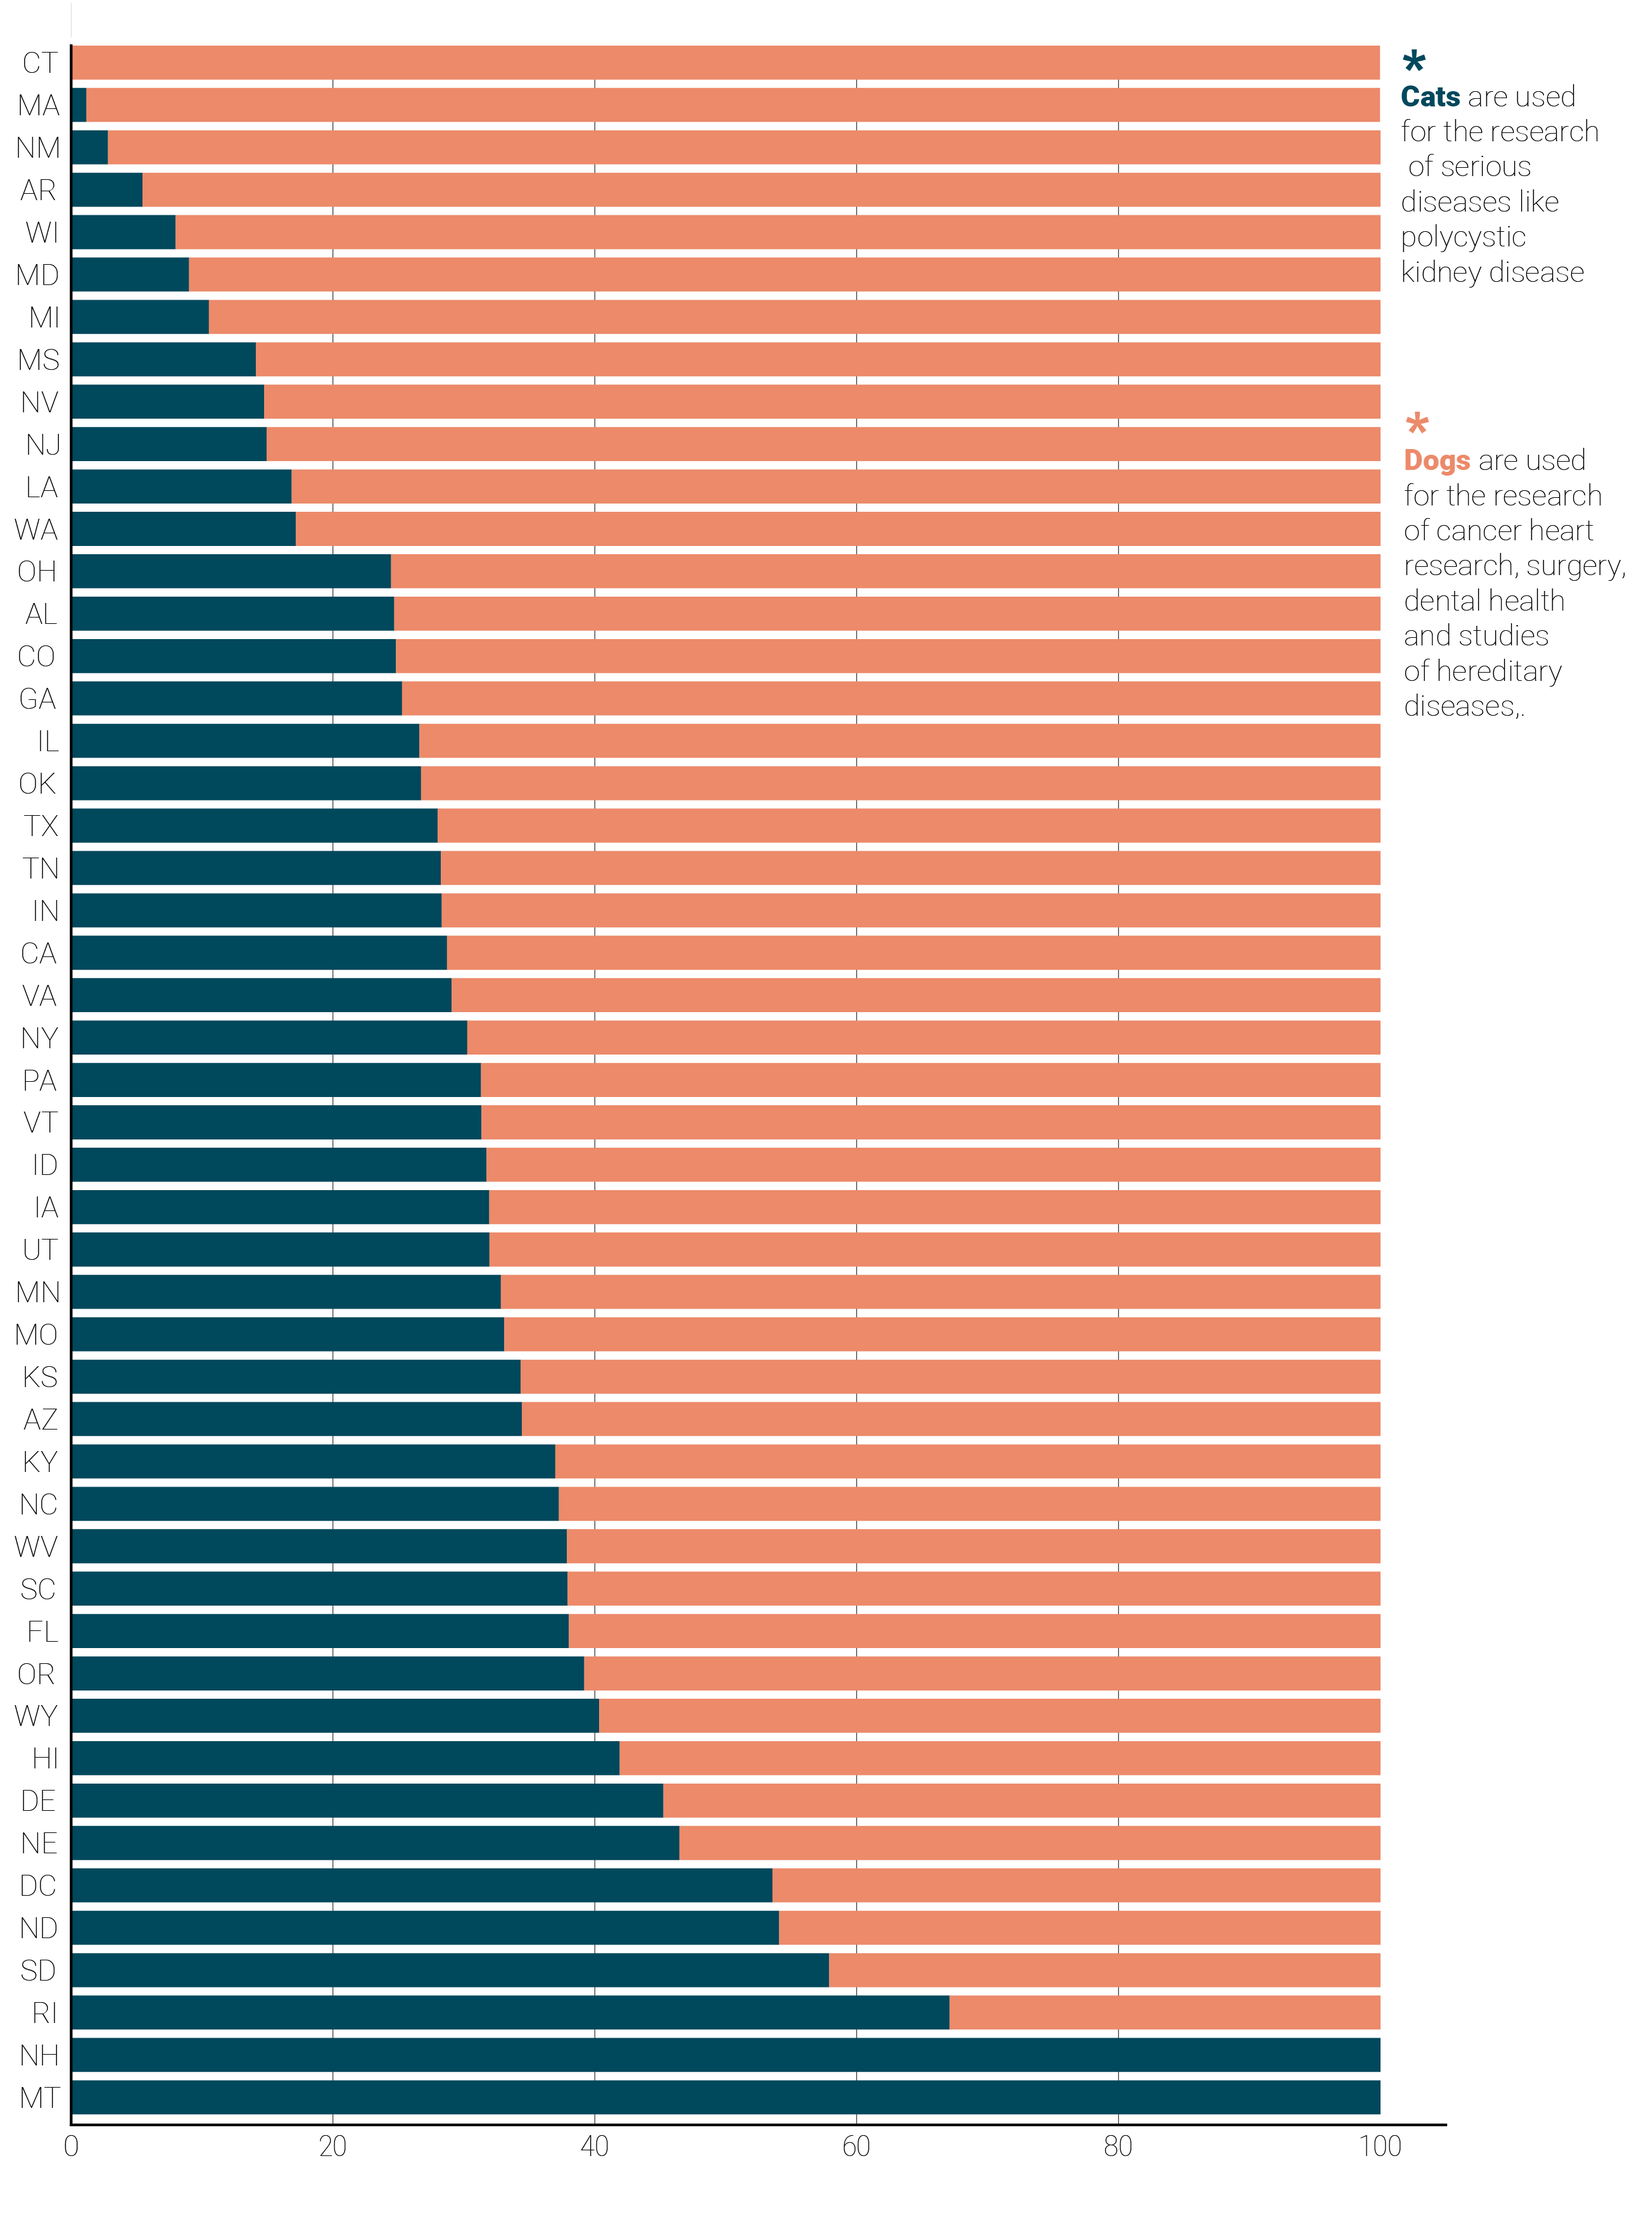
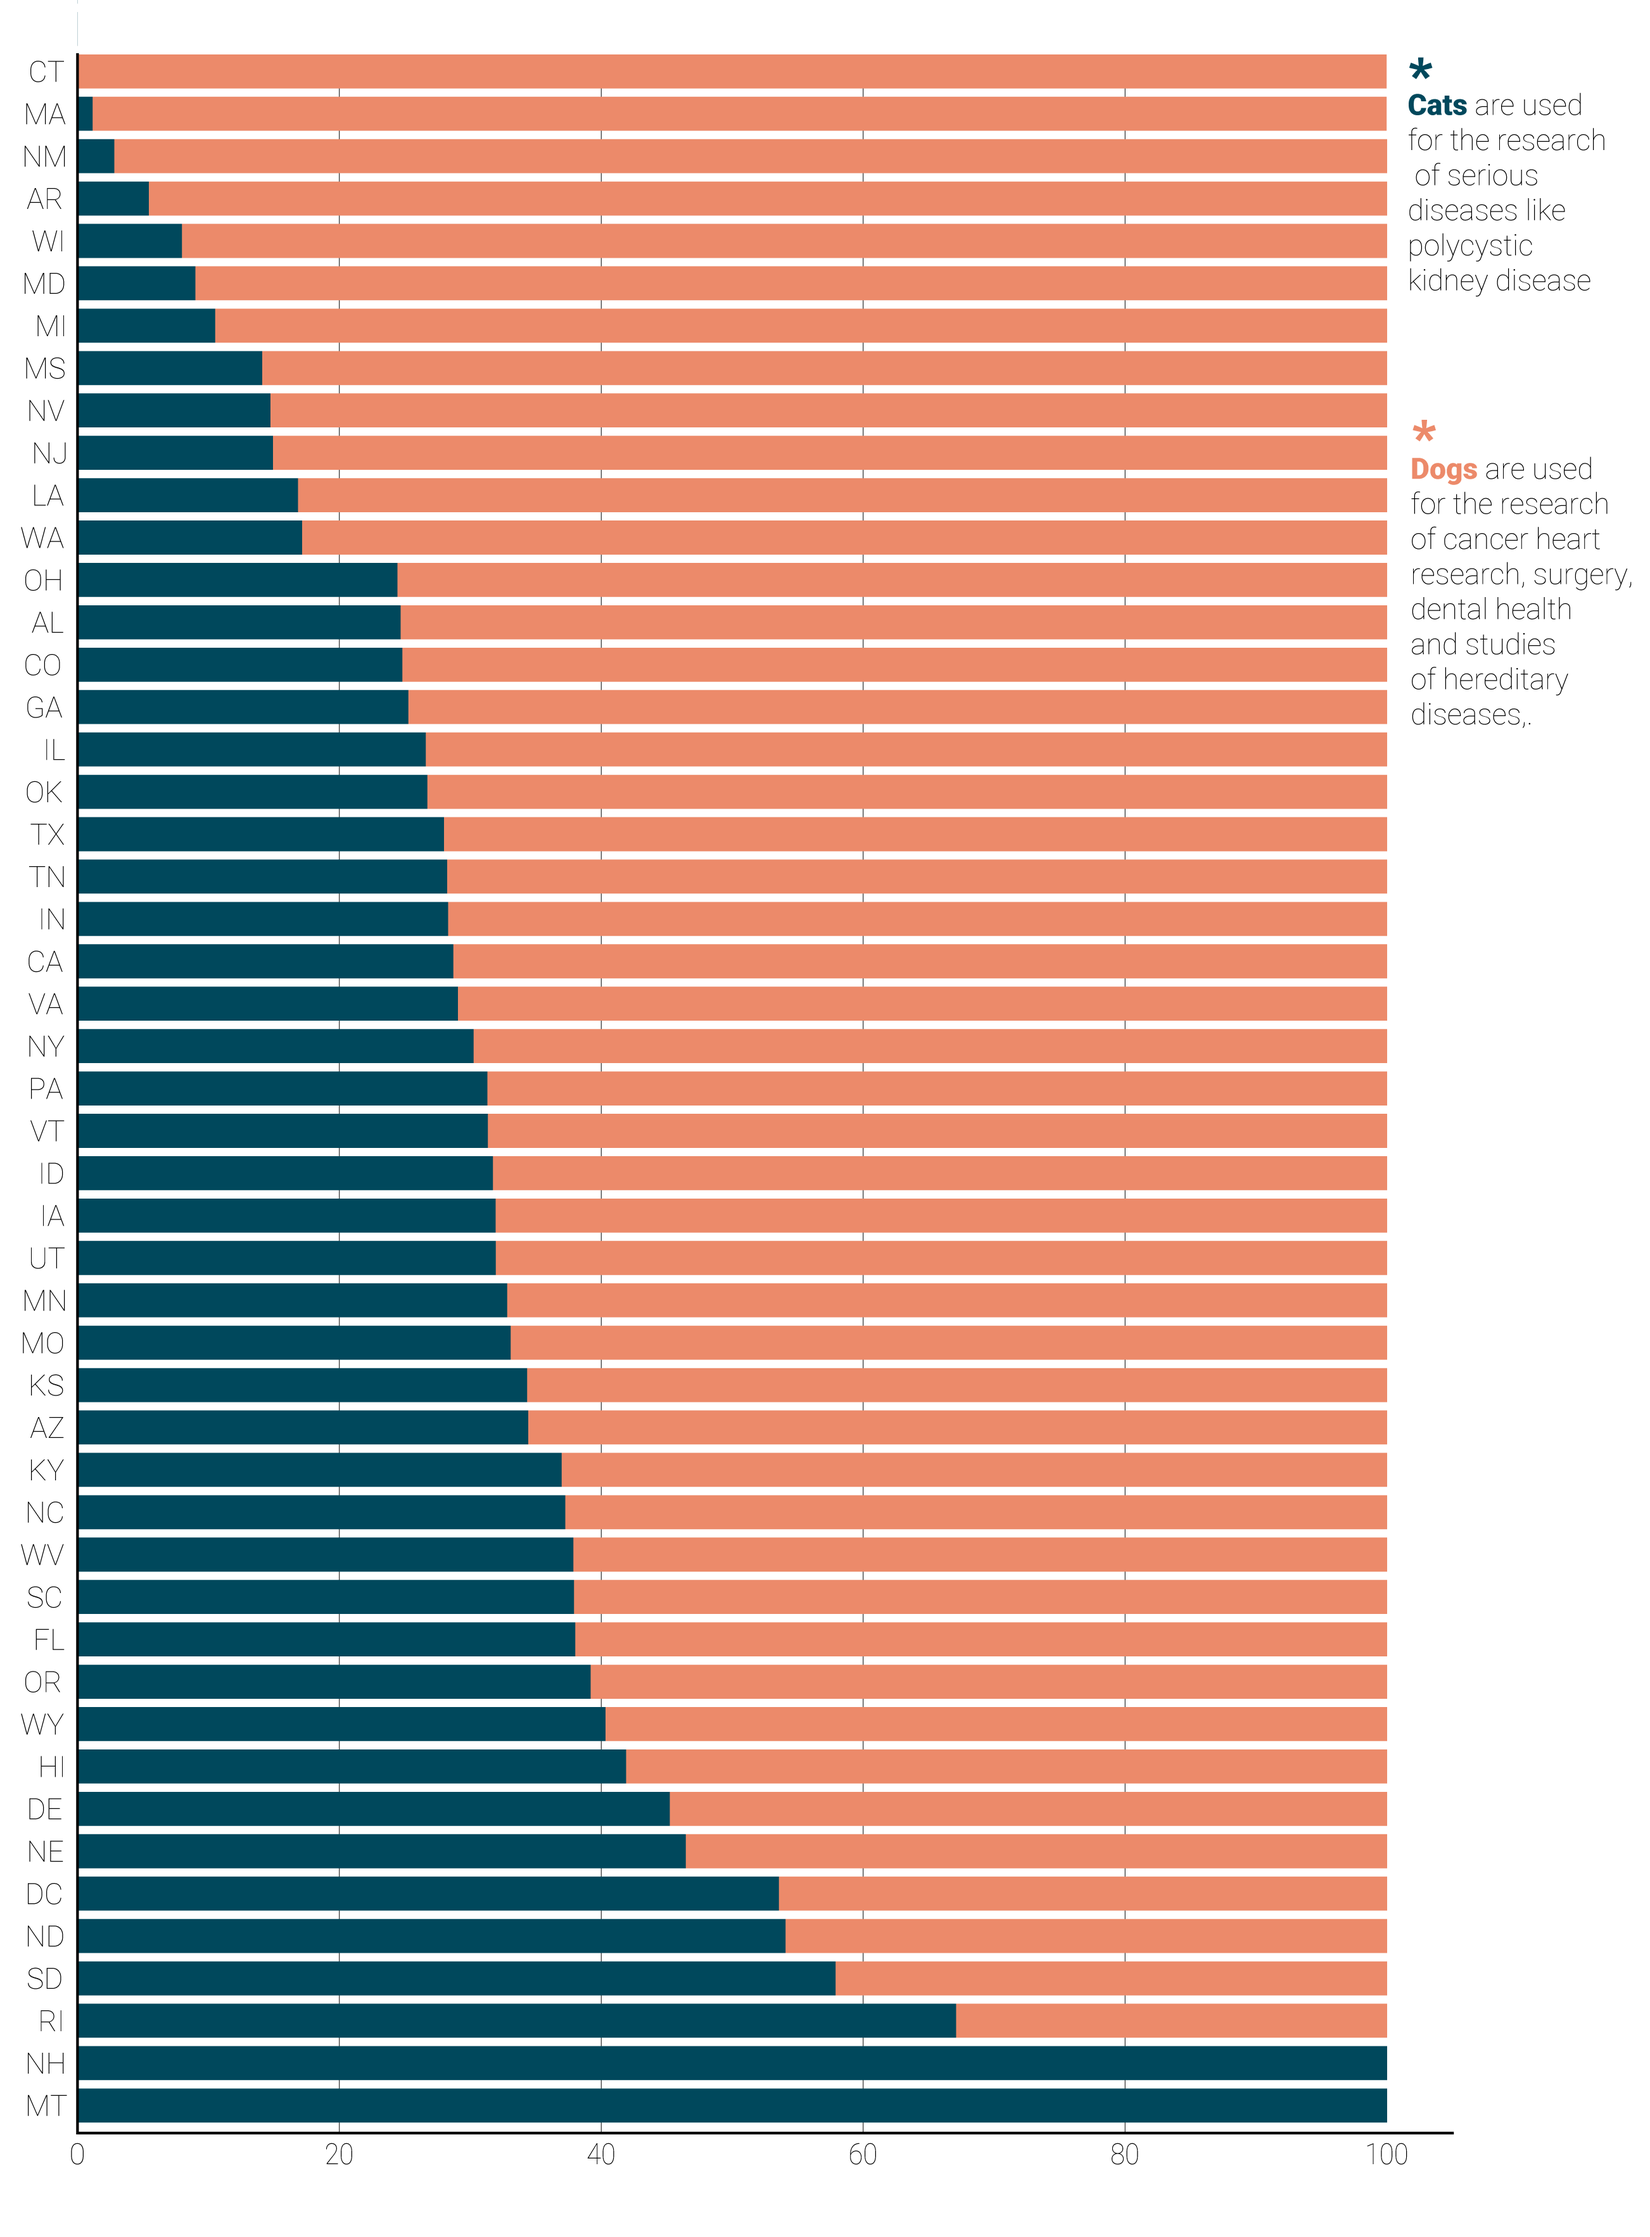
.

Changed region(s): [[0.0, 0.0, 0.9903, 0.9641], [0.1857, 0.4354, 0.2166, 0.4665]]

diff --git a/animals_research/index.html b/animals_research/index.html
@@ -111,7 +111,7 @@
 
 
         <div class="row justify-content-center"> 
-            <div class="col-md-10">
+            <div class="col-lg-10">
                 <p class="label super-font">Animal Use in Research per State</p>
                 <p class="label-text super-font">New Jersey and California use the most animals in the United States.</p>
             </div>
